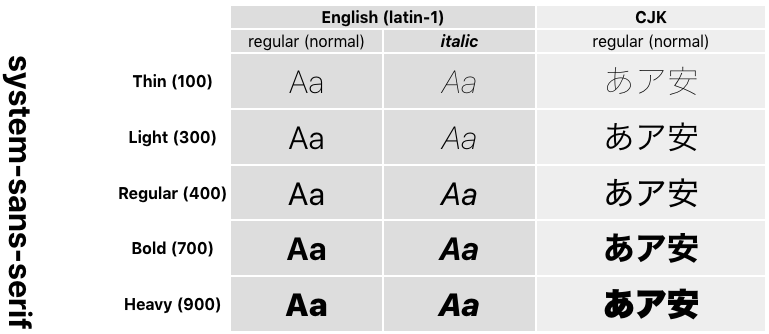
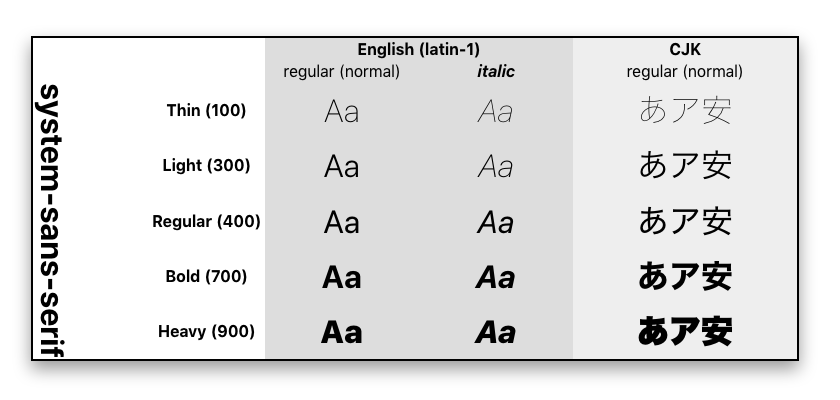
fixed vertical text

diff --git a/index.html b/index.html
@@ -384,7 +384,11 @@
             </thead>
             <tbody style="font-size:2em;">
               <tr class="t-Thin">
-                <th class="t-Vertical" rowspan="5">system-sans-serif</th>
+                <th rowspan="5">
+                  <span class="t-Vertical">
+                    system-sans-serif
+                  </span>
+                </th>
                 <th style="font-size:1rem;">Thin (100)</th>
                 <td>Aa</td>
                 <td class="t-Italic">Aa</td>
